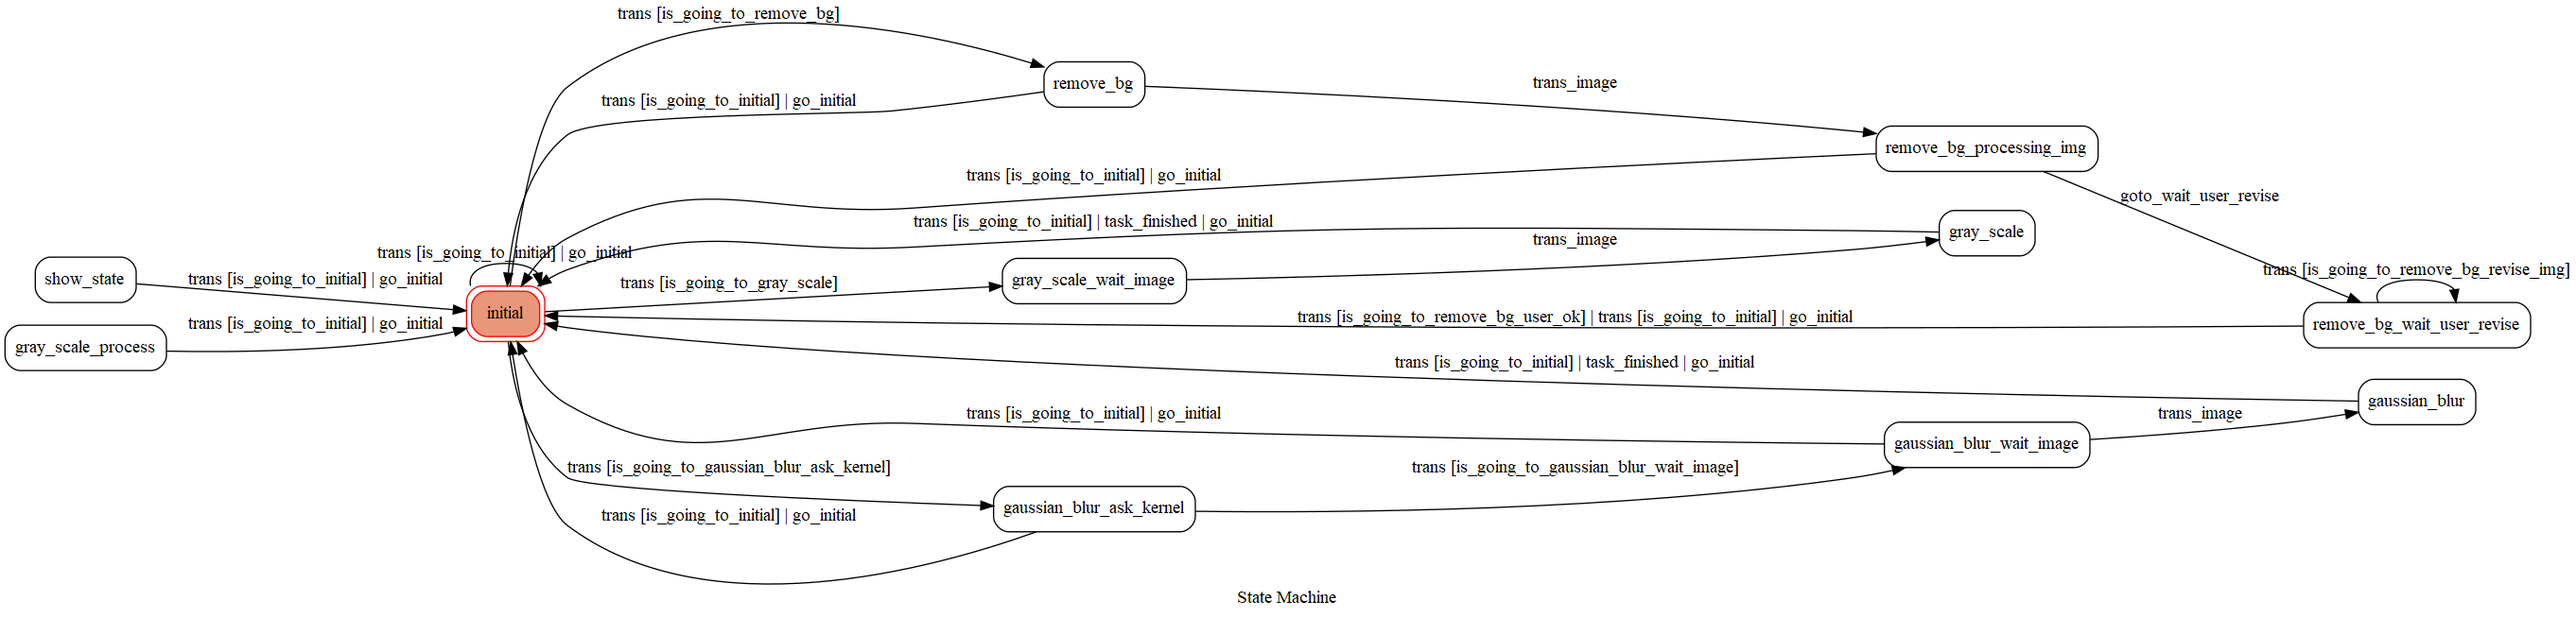
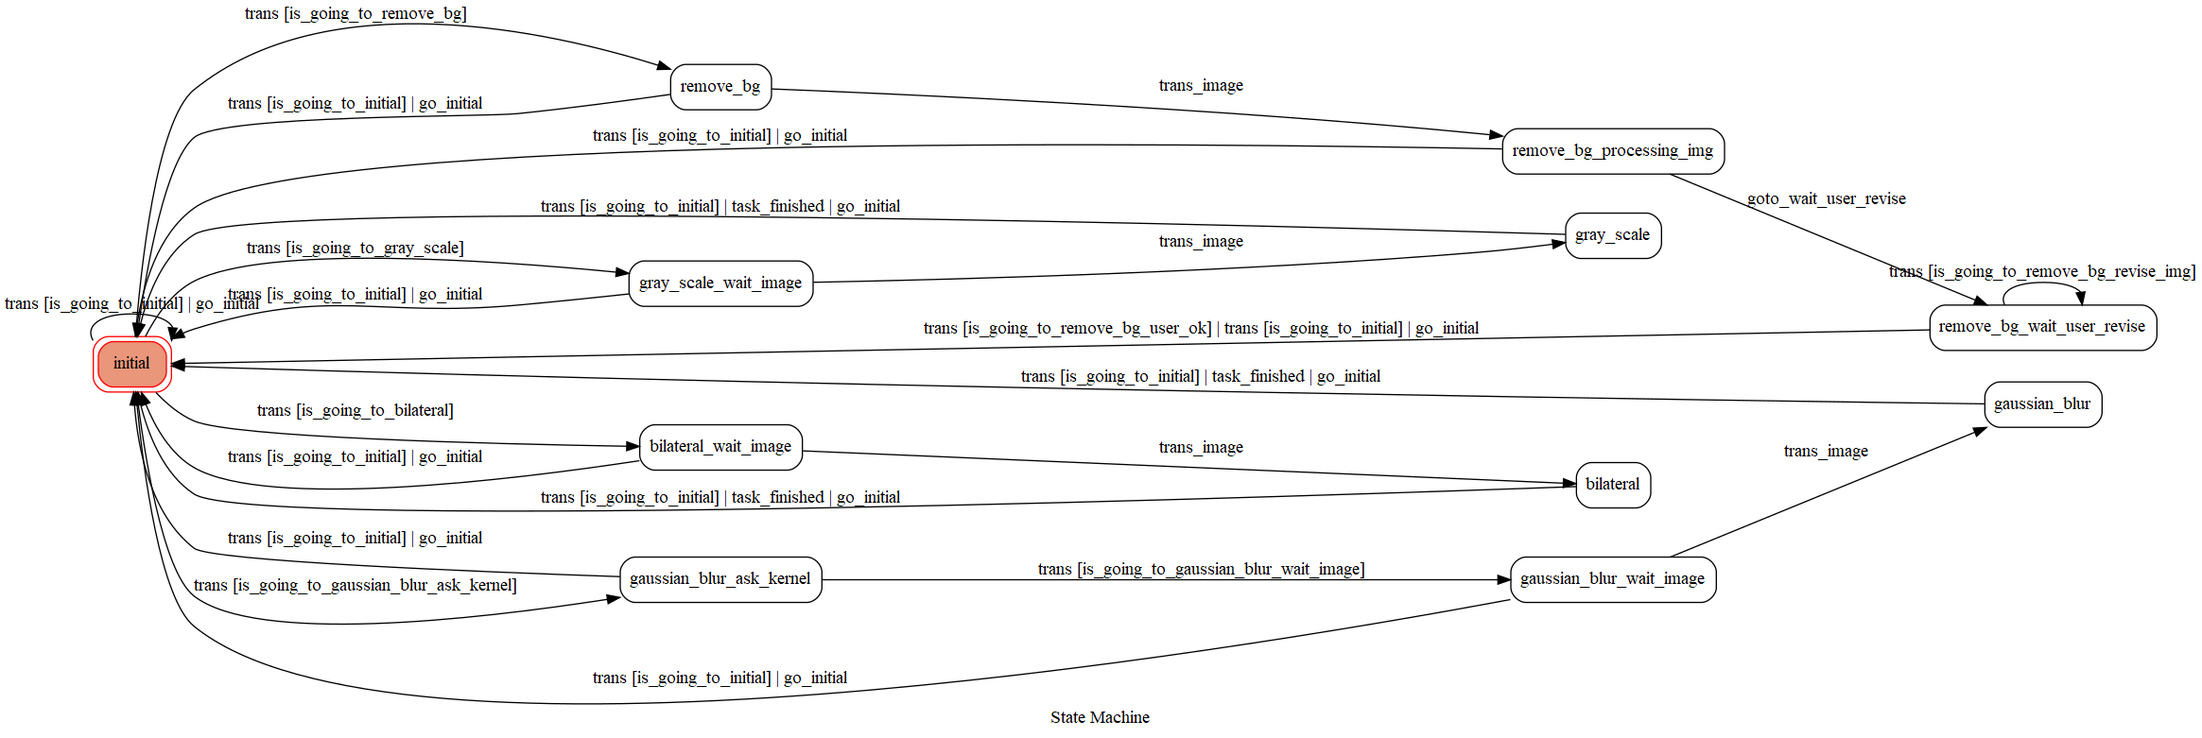
Add readme state

diff --git a/app.py b/app.py
@@ -14,9 +14,9 @@ from utils import send_text_message
 from cairosvg import svg2png
 
 load_dotenv()
-states = ["initial", "show_state",
+states = ["initial",
           "remove_bg", "remove_bg_processing_img", "remove_bg_wait_user_revise",
-          "gray_scale", "gray_scale_process",
+          "gray_scale", "gray_scale_wait_image",
           "gaussian_blur_ask_kernel", "gaussian_blur_wait_image", "gaussian_blur",
           "bilateral_wait_image", "bilateral"]
 

diff --git a/README.md b/README.md
@@ -37,3 +37,6 @@
     ./static/images 用來存放運行時的圖片
 
 ## 使用範例
+
+## State Diagram
+![alt text](https://github.com/nckuwater/CV-linebot/blob/09464302fc29c0b63fde1ed016227914fafbb142/fsm.png?raw=true)
